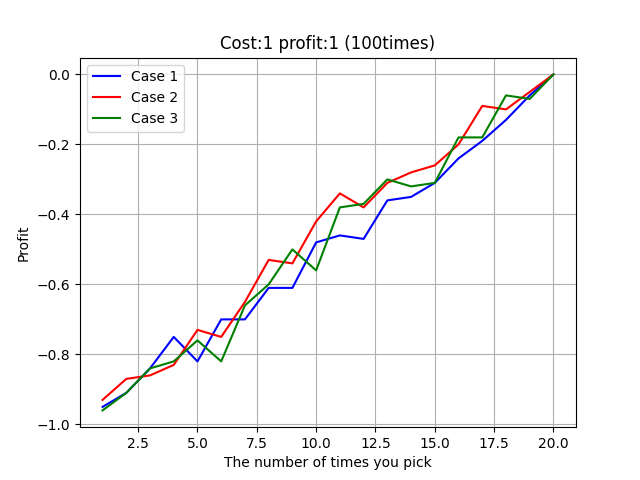
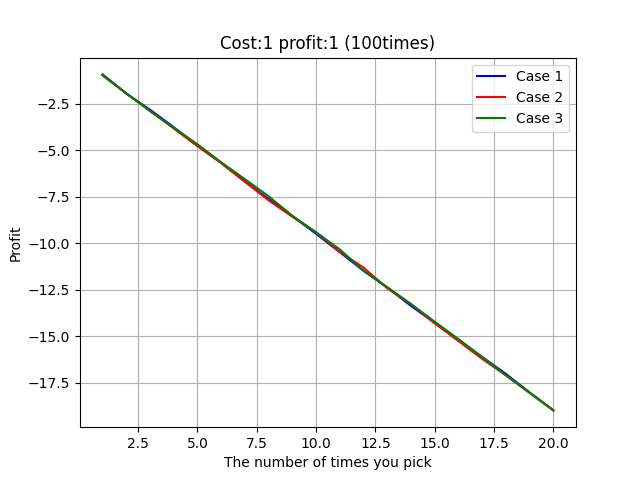
error fix

diff --git a/Solving/main.py b/Solving/main.py
@@ -10,7 +10,7 @@ def DoTest(n,select,cost,profit):
 	"""
 	average = 0
 	for i in range(n):
-		average-=cost
+		average-=cost*select
 		select_list = random.sample(range(1,21),select)
 		answer = random.randint(1,20)
 		if answer in select_list:
@@ -48,3 +48,7 @@ main(1000,1,10)
 main(10,1,20)
 main(100,1,20)
 main(1000,1,20)
+
+main(10,1,30)
+main(100,1,30)
+main(1000,1,30)
